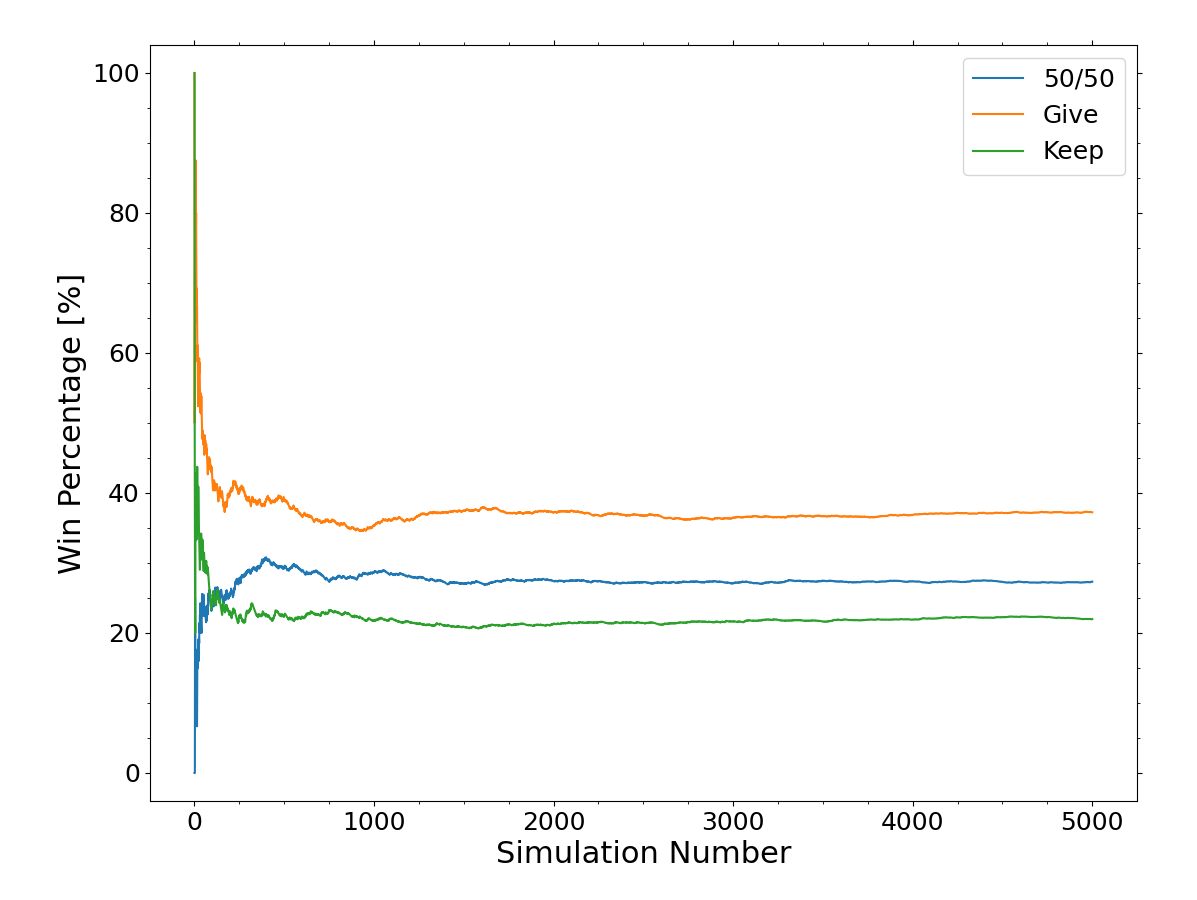
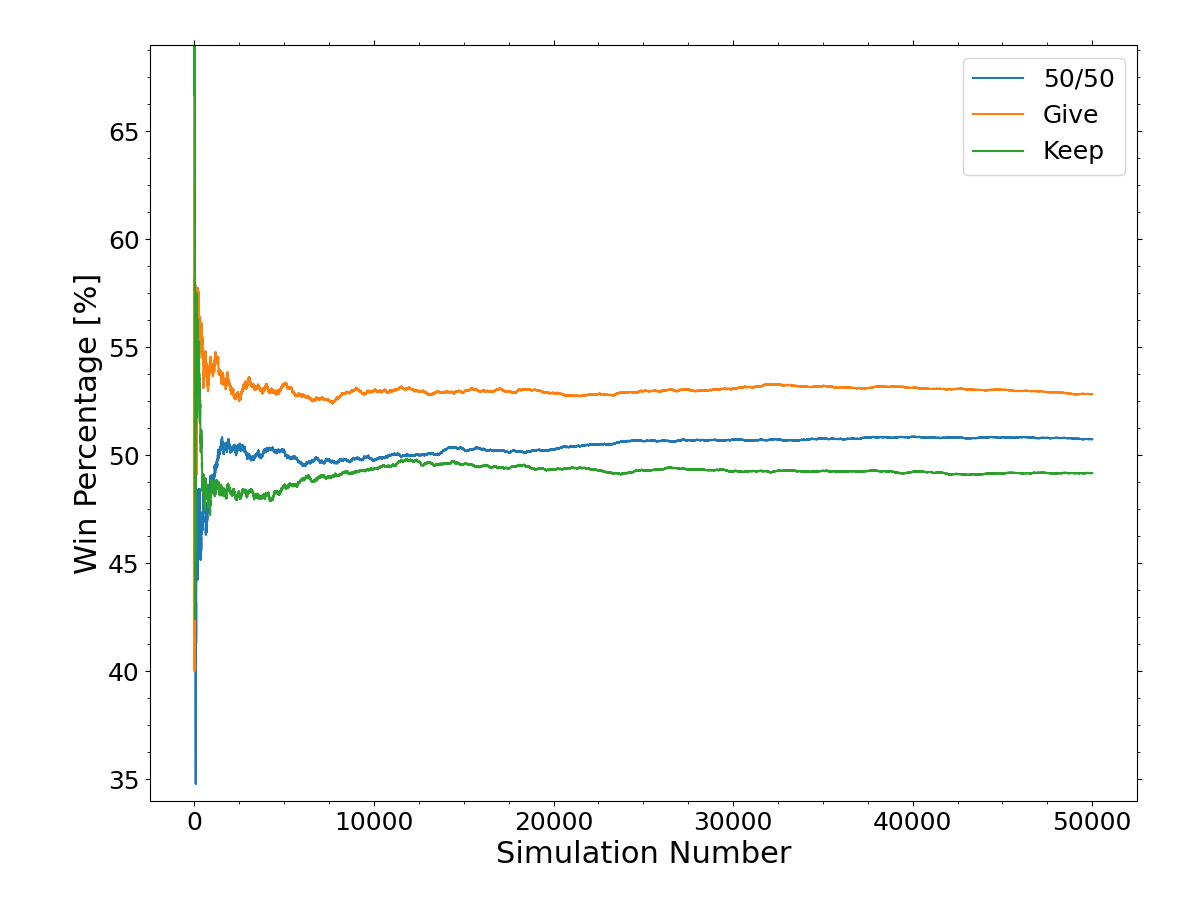
Fix probability bug - execution order of trues and falses count was after .pop() - fixed

diff --git a/MCMC_implementation.py b/MCMC_implementation.py
@@ -32,9 +32,9 @@ def get_rand_deck():
 
 
 def sim_round(self_total, other_total, deck, player_active, force_fifties):
-    next_card = deck.pop()
     trues = deck.count(True)
     falses = deck.count(False)
+    next_card = deck.pop()
     
     # logic for action based on knowledge of deck
     if trues > falses:
@@ -120,7 +120,7 @@ def run_sim(sim_num, fifties_option,
 
 if __name__ == '__main__':
     
-    sim_num = 5000
+    sim_num = 50000
     force_fifties = [None, True, False]
     labels = ['50/50', 'Give', 'Keep']
     
@@ -140,4 +140,4 @@ if __name__ == '__main__':
     ax.yaxis.set_ticks_position('both')
     ax.xaxis.set_ticks_position('both')
     ax.legend(loc='upper right')
-    ax.set_ylim(-4, 104)
+    ax.set_ylim(24, 74)
